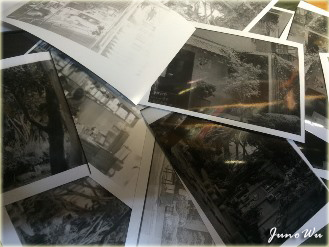
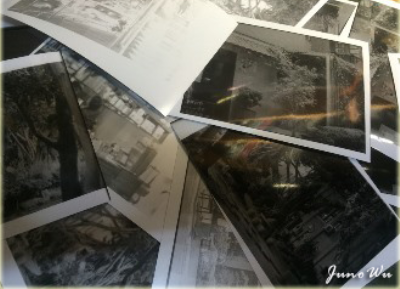
change img size, add new size img

diff --git a/index.html b/index.html
@@ -251,7 +251,7 @@
                                 <i class="fa fa-plus fa-3x"></i>
                             </div>
                         </div>
-                        <img src="img/portfolio/news-preview.png" class="img-responsive" alt="">
+                        <img src="img/portfolio/news.png" class="img-responsive" alt="">
                     </a>
                     <div class="portfolio-caption">
                         <h4>Get news</h4>
